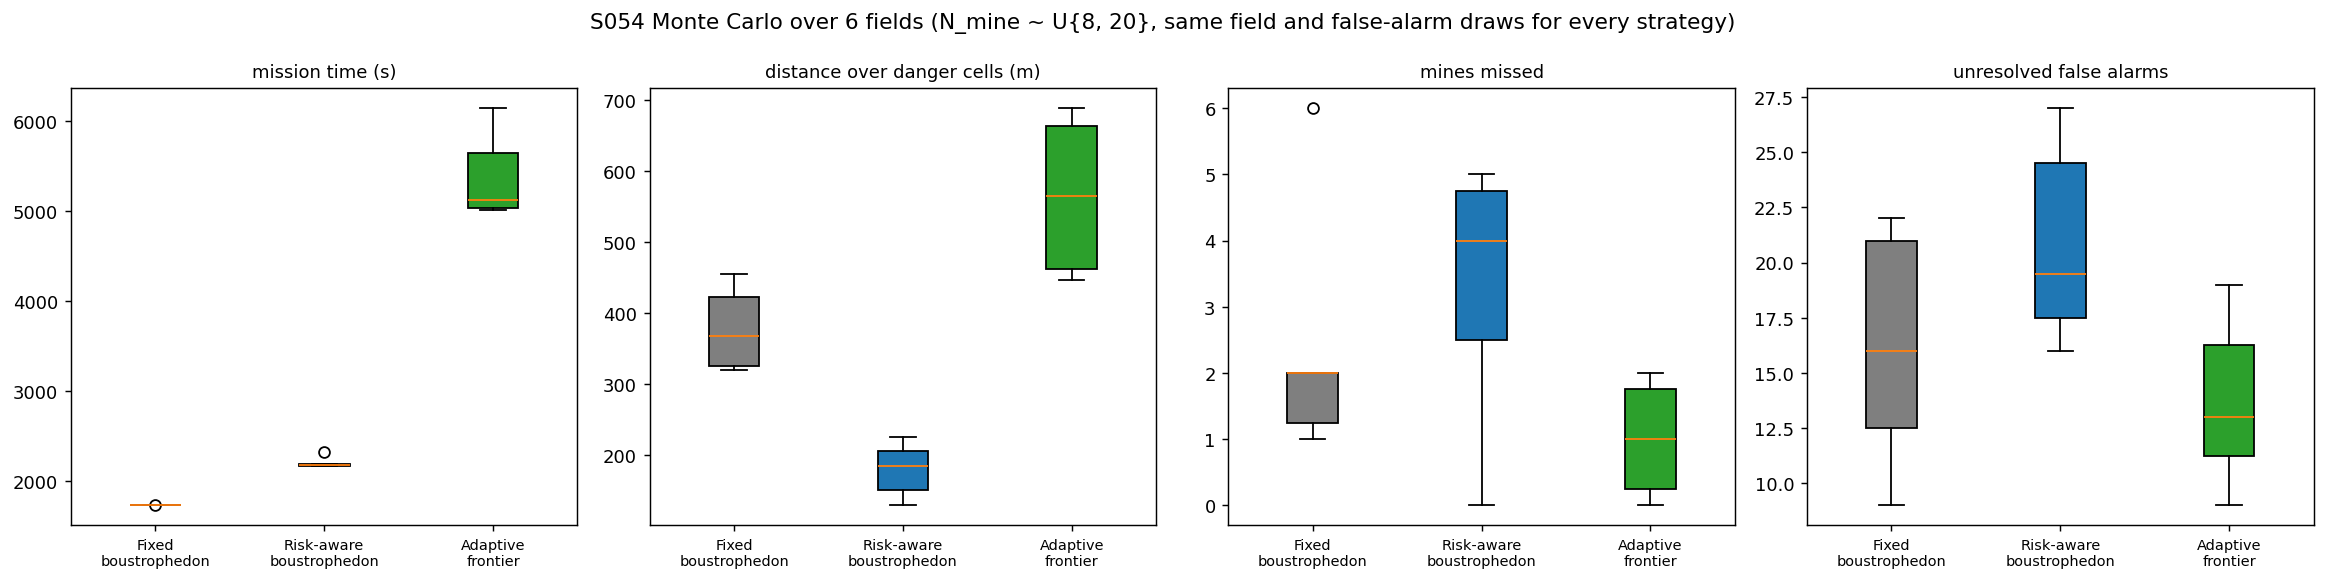
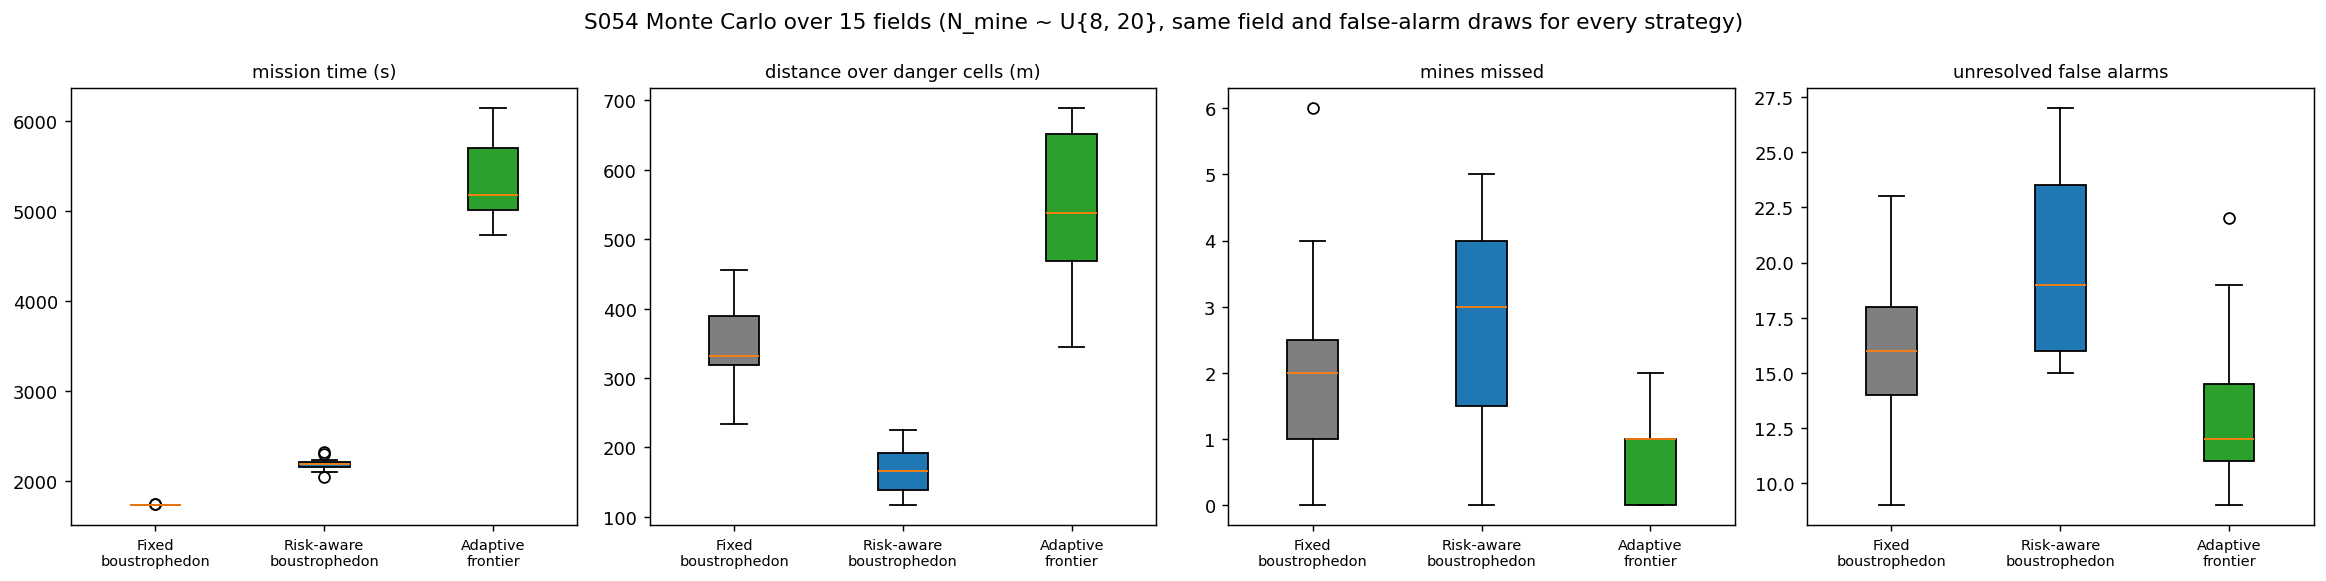
Fix S054 Minefield Detection: address review follow-ups

diff --git a/src/03_environmental_sar/s054_minefield.py b/src/03_environmental_sar/s054_minefield.py
@@ -64,7 +64,8 @@ REJOIN_MARGIN = 2.0         # m — rejoin the strip this far past the danger st
 J_MAX_FACTOR  = 3.0         # J_max = 3 x risk-free cost from the farthest corner
 EVAL_EVERY    = 5.0         # s — escape-path risk sampling interval
 REWEIGHT_EVERY = 10.0       # s — refresh risk weights of active sources
-N_MC          = 6
+N_MC          = 15
+SEAM_WIDTHS   = [6.8, 6.4]    # m — narrower fixed-strip widths tested against the seams
 MAIN_SEED     = 42
 ANIM_FRAMES   = 90
 
@@ -223,7 +224,8 @@ def make_field(seed, n_mines=None):
 
 
 class Mission:
-    def __init__(self, field, strategy, record=False):
+    def __init__(self, field, strategy, record=False, strip_width=STRIP_WIDTH):
+        self.strip_width = strip_width
         self.f = field
         self.strategy = strategy
         self.mines = field['mines']
@@ -426,9 +428,10 @@ class Mission:
     # -- strategies ---------------------------------------------------------
     def waypoints(self):
         wps = []
-        n_strips = int(np.ceil(FIELD_SIZE / STRIP_WIDTH))
+        w = self.strip_width
+        n_strips = int(np.ceil(FIELD_SIZE / w))
         for n in range(n_strips):
-            x = STRIP_WIDTH / 2 + n * STRIP_WIDTH
+            x = min(w / 2 + n * w, FIELD_SIZE - w / 2)
             ys = (0.0, FIELD_SIZE) if n % 2 == 0 else (FIELD_SIZE, 0.0)
             wps += [np.array([x, ys[0]]), np.array([x, ys[1]])]
         return wps
@@ -595,6 +598,8 @@ def run_simulation():
         fld = make_field(seed)
         for s in STRATS:
             mc[s].append(Mission(fld, s).run())
+        for w in SEAM_WIDTHS:
+            mc.setdefault(('fixed', w), []).append(Mission(fld, 'fixed', strip_width=w).run())
     return field, main, missions, mc, (d_dij, d_ast)
 
 
@@ -895,7 +900,25 @@ if __name__ == '__main__':
     print(f"  Risk-aware flies less over danger than fixed in {int(np.sum(dd[1] < dd[0]))}/{N_MC} fields, "
           f"frontier less than fixed in {int(np.sum(dd[2] < dd[0]))}/{N_MC}")
     print(f"  Risk-aware slower than fixed in {int(np.sum(tt[1] > tt[0]))}/{N_MC}; mean extra "
-          f"{(tt[1] - tt[0]).mean():.0f} s")
+          f"{(tt[1] - tt[0]).mean():.0f} s; frontier / fixed time {tt[2].mean() / tt[0].mean():.1f}x")
+
+    def paired(key, a, b):
+        x = np.array([r[key] for r in mc[a]], dtype=float)
+        y = np.array([r[key] for r in mc[b]], dtype=float)
+        return int(np.sum(x < y)), int(np.sum(x == y)), int(np.sum(x > y))
+
+    for key, lab in (('missed', 'mines missed'), ('fa_unresolved', 'unresolved false alarms')):
+        for a in ('risk', 'frontier'):
+            f, e, m_ = paired(key, a, 'fixed')
+            print(f"  Paired {lab}: {LABELS[a]} vs fixed -> fewer {f}, equal {e}, more {m_} of {N_MC}")
+    for w in SEAM_WIDTHS:
+        runs = mc[('fixed', w)]
+        a = {k: np.array([r[k] for r in runs], dtype=float) for k in ('time', 'missed', 'coverage', 'n_mines')}
+        miss8 = np.array([r['missed'] for r in mc['fixed']], dtype=float)
+        print(f"  Fixed boustrophedon with {w:.1f} m strips: time {a['time'].mean():.0f} +- {a['time'].std():.0f} s, "
+              f"coverage {100 * a['coverage'].mean():.2f}%, missed {a['missed'].mean():.2f} +- {a['missed'].std():.2f} "
+              f"(8 m strips: {miss8.mean():.2f}); fewer than 8 m in {int(np.sum(a['missed'] < miss8))}, "
+              f"equal {int(np.sum(a['missed'] == miss8))}, more {int(np.sum(a['missed'] > miss8))} of {N_MC}")
 
     out = os.path.normpath(OUTPUT_DIR)
     os.makedirs(out, exist_ok=True)

diff --git a/outputs/03_environmental_sar/s054_minefield/README.md b/outputs/03_environmental_sar/s054_minefield/README.md
@@ -63,7 +63,7 @@ The card pattern has 25 strips, 5192 m and 1731 s.
 | Risk-aware look-ahead / rejoin margin (added) | 15 m / 2 m |
 | $J_{max}$ (added) | 3 × risk-free cost from the farthest corner |
 | Escape-risk sampling / risk-weight refresh (added) | every 5 s / every 10 s |
-| Monte Carlo (added) | 6 fields (seeds 0–5), same field and false-alarm draws for every strategy |
+| Monte Carlo (added) | 15 fields (seeds 0–14), same field and false-alarm draws for every strategy; seam test with 6.8 m and 6.4 m strips |
 
 ---
 
@@ -78,7 +78,7 @@ conda activate drones
 python src/03_environmental_sar/s054_minefield.py
 ```
 
-Runtime ≈ 2–3 min (measured with other simulations running in parallel).
+Runtime ≈ 2.5–5.5 min depending on machine load (about 5 min with several other simulations running).
 
 ---
 
@@ -108,21 +108,36 @@ The fixed run misses three mines. None of them is in the unflown eastern strip (
 | (88.4, 114.8) | 3.61 m | 0.945 |
 | (168.1, 26.5) | 3.87 m | 0.794 |
 
-### Monte Carlo (6 fields, N_mine ~ U{8, 20}, 17.0 mines on average)
+### Monte Carlo (15 fields, N_mine ~ U{8, 20}, 15.7 mines on average)
 
 | Strategy | Mission time | Coverage | Mines missed | Unresolved / raised false alarms | Distance over danger | Unsafe escape samples |
 |----------|------:|------:|------:|------:|------:|------:|
-| Fixed boustrophedon | **1729 ± 1 s** | 95.00 % | 2.33 ± 1.70 | 16.2 ± 4.9 / 30.3 | 376.7 ± 54.4 m | 1.6 % |
-| Risk-aware boustrophedon | 2200 ± 57 s | 86.74 % | 3.33 ± 1.80 | 20.8 ± 4.2 / 36.7 | **179.1 ± 34.4 m** | **0.1 %** |
-| Adaptive frontier | 5365 ± 441 s | 96.27 % | **1.00 ± 0.82** | **13.7 ± 3.4** / 85.0 | 564.7 ± 104.8 m | 0.3 % |
+| Fixed boustrophedon | **1731 ± 5 s** | 95.00 % | 1.93 ± 1.65 | 16.3 ± 3.7 / 29.3 | 344.4 ± 60.1 m | 1.2 % |
+| Risk-aware boustrophedon | 2186 ± 67 s | 87.86 % | 2.67 ± 1.66 | 19.9 ± 4.1 / 35.0 | **168.0 ± 34.8 m** | **0.6 %** |
+| Adaptive frontier | 5326 ± 433 s | 96.21 % | **0.80 ± 0.75** | **13.3 ± 3.5** / 81.7 | 549.9 ± 107.1 m | 0.9 % |
 
-The fixed strategy is fastest in 6/6 fields. The risk-aware strategy flies less over danger cells than the fixed one in 6/6 fields and is slower in 6/6 (471 s longer on average). The frontier strategy never flies less over danger than the fixed one (0/6 fields). No mission ever aborts.
+Paired comparisons against the fixed sweep on the same field (fewer / equal / more):
+
+| | Mines missed | Unresolved false alarms |
+|---|:---:|:---:|
+| Risk-aware vs fixed | 4 / 4 / 7 | 1 / 1 / 13 |
+| Frontier vs fixed | 7 / 6 / 2 | 11 / 2 / 2 |
+
+The fixed strategy is fastest in 15/15 fields. The risk-aware strategy flies less over danger cells than the fixed one in 15/15 fields and is slower in 15/15 (455 s longer on average). The frontier strategy never flies less over danger than the fixed one (0/15 fields) and takes 3.1× as long. No mission ever aborts.
+
+**Seam test** (fixed boustrophedon with narrower strips, same 15 fields):
+
+| Strip width | Mission time | Mines missed | Fewer / equal / more missed than with 8 m strips |
+|---|---:|---:|:---:|
+| 8.0 m (card) | 1731 ± 5 s | 1.93 ± 1.65 | — |
+| 6.8 m | 2002 ± 7 s | 0.60 ± 0.80 | 9 / 6 / 0 |
+| 6.4 m | 2130 ± 5 s | 0.47 ± 0.81 | 10 / 5 / 0 |
 
 **Key findings**:
-- **The card's 8 m strips leave seams where mines are missed.** The strip width equals the GPR diameter (8 m), but an alarm needs $r$ < 3.40 m and confirmation needs about 3.5 m. A mine 3.6–4.0 m from both neighbouring strips is never alarmed and accumulates only $P_d^{cum}$ = 0.64–0.95. All three mines missed by the fixed run are such seam mines. The coverage metric still counts their cells as scanned, because every cell centre is at most 3.5 m from a strip centreline, enough to pass 0.9. Strips about 6.8 m apart (twice the alarm radius) would close the seams.
-- **Risk-aware detours halve the time over danger cells, but cost coverage, time and confirmations.** Compared with the fixed sweep, the drone flies 179 m instead of 377 m over danger cells, and the escape path almost never has a mean risk ≥ 0.1 (0.1 % vs 1.6 % of samples). However, the zones it detours around stay unscanned. It never reaches the 95 % target (86.74 %), it misses slightly more mines (3.33 vs 2.33), and it confirms only 4 of its 12 detections in the showcase field, because it turns away right after the first alarm. Most avoided zones come from false alarms (39 raised in the showcase run, 24 still unresolved), which look exactly like mines to the planner.
-- **The adaptive frontier finds the most mines and resolves the most false alarms, but takes about 3× as long.** It misses 1.00 mine on average and leaves 13.7 unresolved false alarms, against 2.33 and 16.2 for the fixed sweep. The cost is 5365 s against 1729 s and the most flying over danger (565 m), partly because the reclassification visits deliberately pass over alarms. Each extra pass over a block can raise a new false alarm, so it also raises the most (85 on average), which in turn creates more zones to avoid and revisit.
-- **The escape-path constraint is rarely violated by any strategy.** The least-risk path almost always finds a corridor: its mean risk stays below 0.1 in ≥ 98.4 % of samples for every strategy. The only real exposure is the first cells when the drone itself is over a fresh detection (maximum cell risk up to 1.0). No mission reached $J_{max}$, so the abort rule never triggered and does not separate the strategies.
+- **The card's 8 m strips leave seams where mines are missed.** The strip width equals the GPR diameter (8 m), but an alarm needs $r$ < 3.40 m and confirmation needs about 3.5 m. A mine 3.6–4.0 m from both neighbouring strips is never alarmed and accumulates only $P_d^{cum}$ = 0.64–0.95. All three mines missed by the fixed showcase run are such seam mines. The coverage metric still counts their cells as scanned, because every cell centre is at most 3.5 m from a strip centreline, enough to pass 0.9. Narrowing the strips to 6.8 m (twice the alarm radius) cuts the misses from 1.93 to 0.60 per field (fewer in 9 of 15 fields, never more) for a longer mission (2002 vs 1731 s); 6.4 m gives 0.47. Neither width removes all misses; the script does not classify the remaining ones by cause (the unflown area left by the 95 % stopping rule, or a mine just outside the alarm radius at the discrete 0.6 m steps).
+- **Risk-aware detours halve the time over danger cells, but cost coverage, time and confirmations.** Compared with the fixed sweep, the drone flies 168 m instead of 344 m over danger cells (less in 15/15 fields) and the escape path has a mean risk ≥ 0.1 in fewer samples (0.6 % vs 1.2 %). However, the zones it detours around stay unscanned: it never reaches the 95 % target (87.86 %) and leaves more false alarms unresolved in 13 of 15 fields. It misses more mines on average (2.67 vs 1.93), but the paired split is mixed (more in 7 fields, fewer in 4, equal in 4), so this difference is not clear-cut. In the showcase field it confirms only 4 of its 12 detections, because it turns away right after the first alarm. Most avoided zones come from false alarms, which look exactly like mines to the planner.
+- **The adaptive frontier misses the fewest mines and resolves the most false alarms, but takes about 3× as long.** It misses 0.80 mines per field (fewer than the fixed sweep in 7 fields, more in 2) and leaves 13.3 unresolved false alarms (fewer in 11 of 15 fields). The cost is 5326 s against 1731 s and the most flying over danger (550 m), partly because the reclassification visits deliberately pass over alarms. Its count of raised false alarms (81.7) is inflated by the model: every time its footprint re-enters a block it draws a new false alarm, and the frontier re-enters blocks far more often than a single sweep. Compare the strategies on unresolved alarms, not raised ones.
+- **The escape-path constraint is rarely violated by any strategy.** The least-risk path almost always finds a corridor: its mean risk reaches 0.1 in at most 1.2 % of the samples for any strategy. The only real exposure is the first cells when the drone itself is over a fresh detection (maximum cell risk up to 1.0). No mission reached $J_{max}$, so the abort rule never triggered and does not separate the strategies.
 
 ### Risk Maps
 
@@ -183,13 +198,13 @@ Risk-aware sweep: the risk map builds up as mines and false alarms are detected,
 | Frontier planner (details not given) | 8 m bands west to east; nearest unscanned non-danger cell outside the footprint; band centreline; least-risk path when the line crosses danger; reclassification visits after 95 % | A plain nearest-cell frontier zig-zagged across the field in development runs; sweeping by bands was the most efficient rule tried. |
 | $J_{max}$ not given | 3 × risk-free cost from the farthest corner | Never reached by any mission. |
 | Risk weights $P_d^{cum}$ change every step | Risk map rebuilt on each new alarm, confirmation, false alarm or clearance, and every 10 s if a weight changed by > 0.01 | Keeps the runtime reasonable. |
-| Single run | Plus a 6-field Monte Carlo | Results depend on the mine and false-alarm layout; 6 fields keep the runtime under 5 min. |
+| Single run | Plus a 15-field Monte Carlo with paired counts, and a narrower-strip test for the fixed sweep | Results depend on the mine and false-alarm layout. |
 
 ---
 
 ## Extensions
 
-1. **Narrower strips**: re-run with a 6.8 m strip width (twice the alarm radius) to close the seams, and compare mission time and missed mines.
+1. **Narrower strips for every strategy**: the seam test above uses the fixed sweep only; repeat it for the risk-aware and frontier planners.
 2. **Belief over alarm identity**: keep $P(\text{mine} \mid \text{alarms})$ per alarm and lower the risk weight of single unconfirmed returns, so false alarms do not block coverage.
 3. **Coverage-aware risk-aware sweep**: after the pattern, revisit unscanned cells at the edges of danger zones from the safe side.
 4. **Multi-drone sweep**: split the strips among 3 drones and rebalance when one drone aborts.
